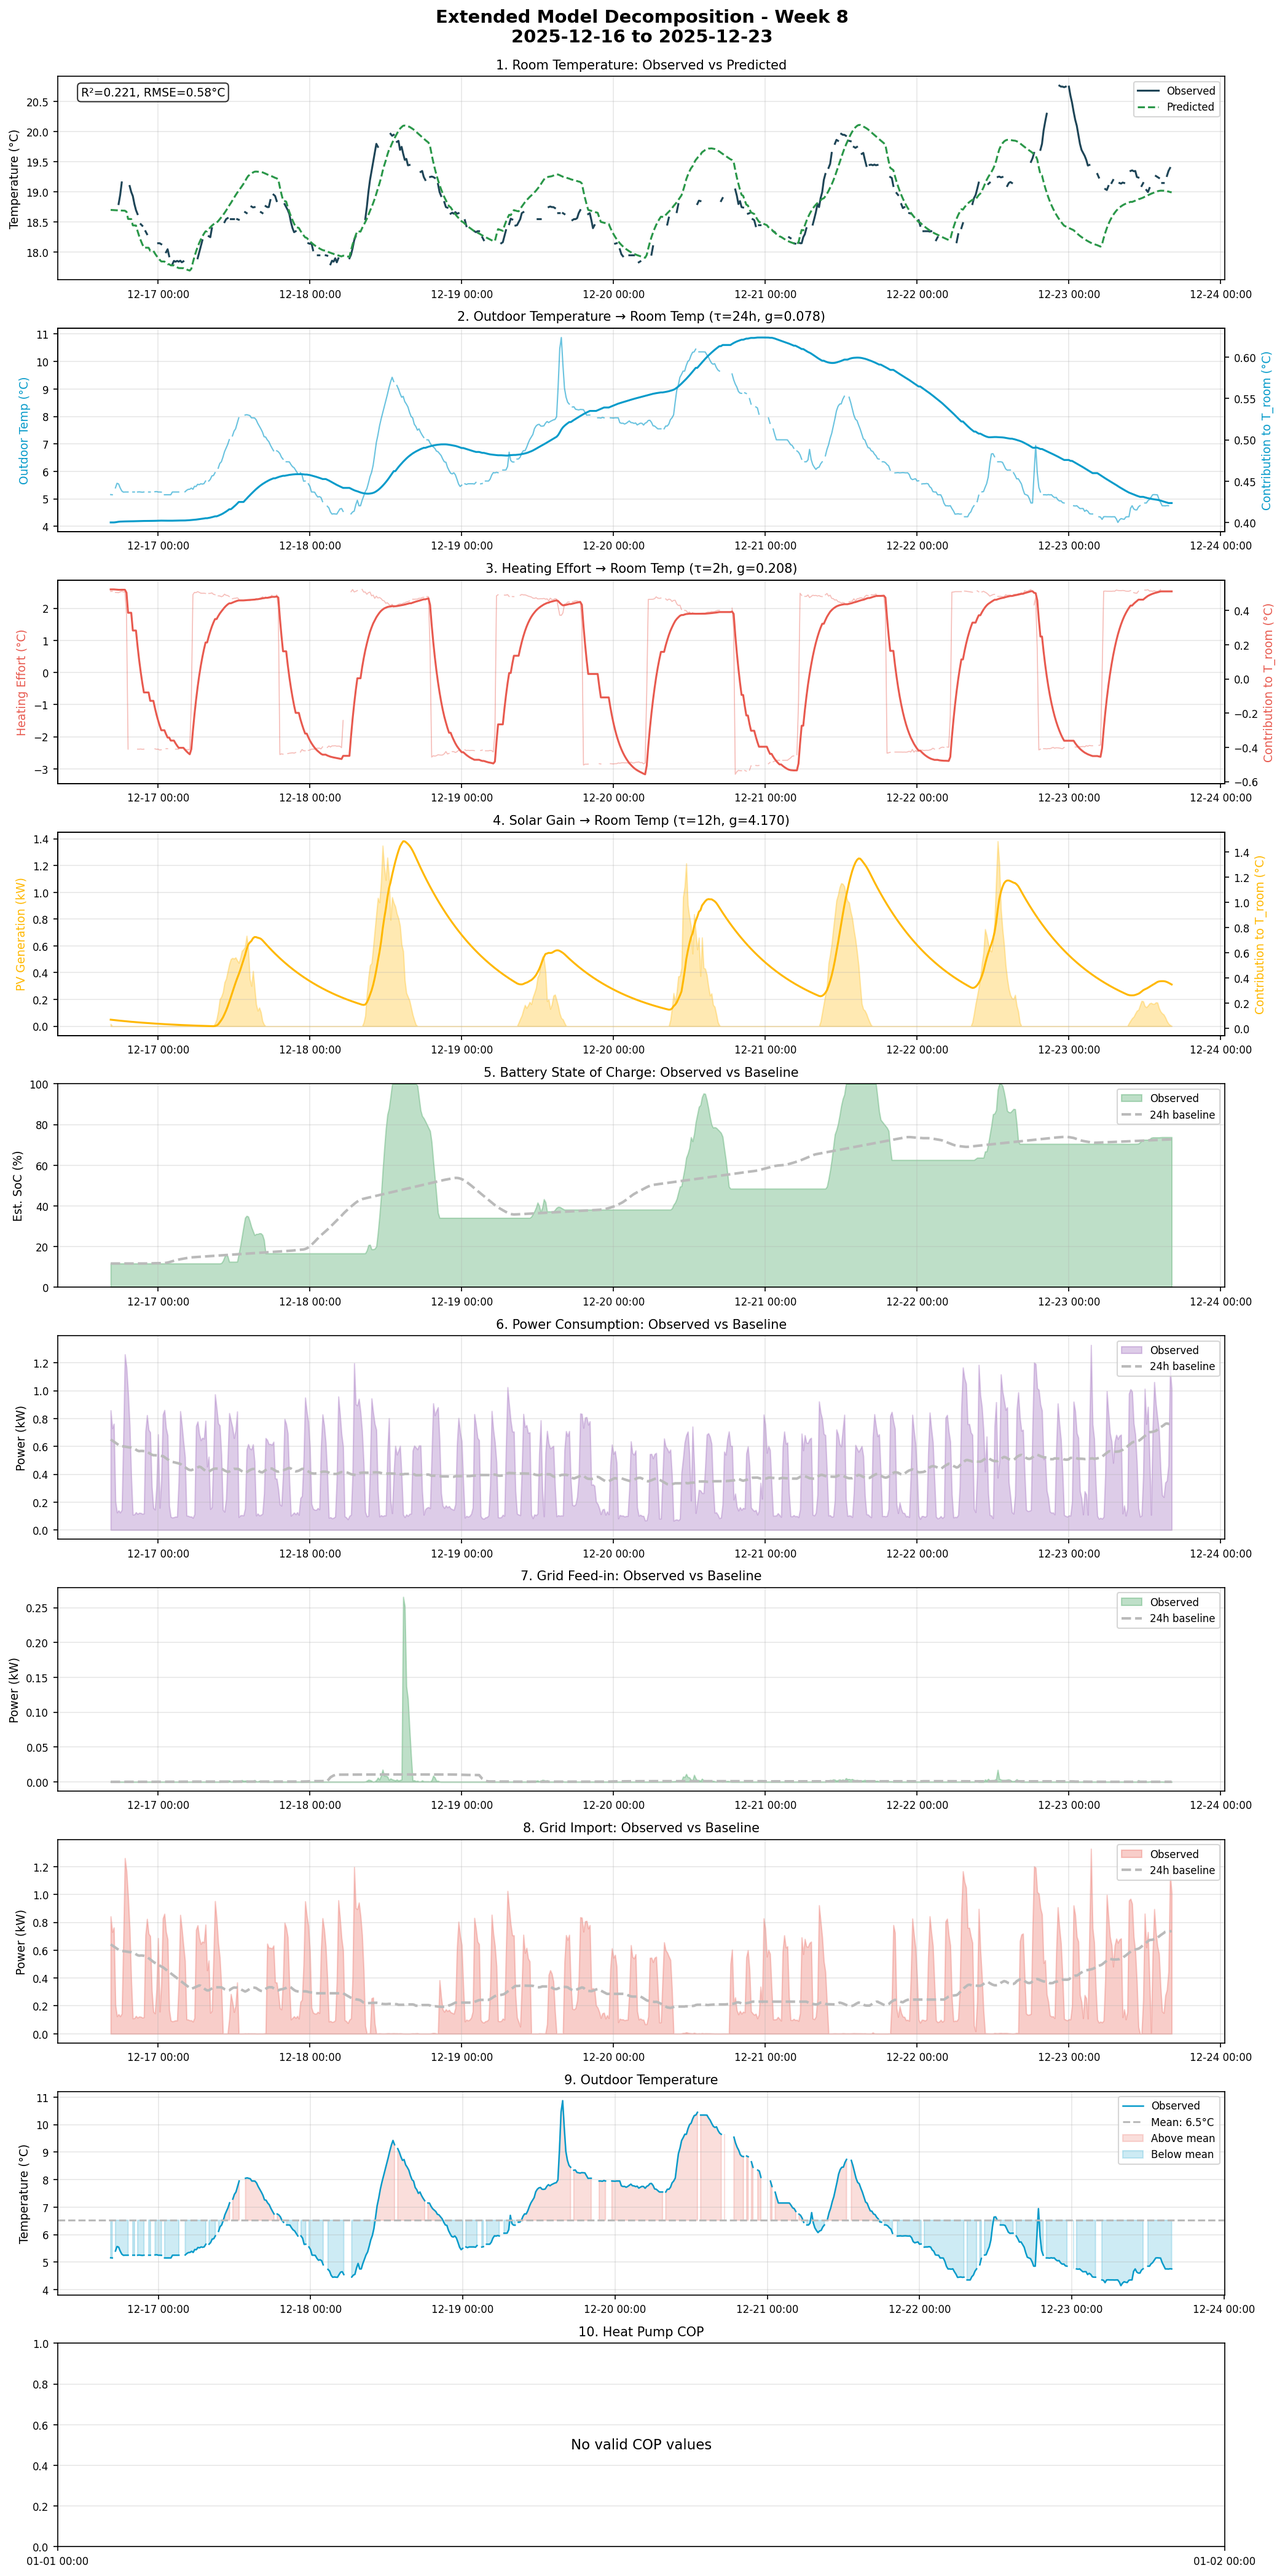
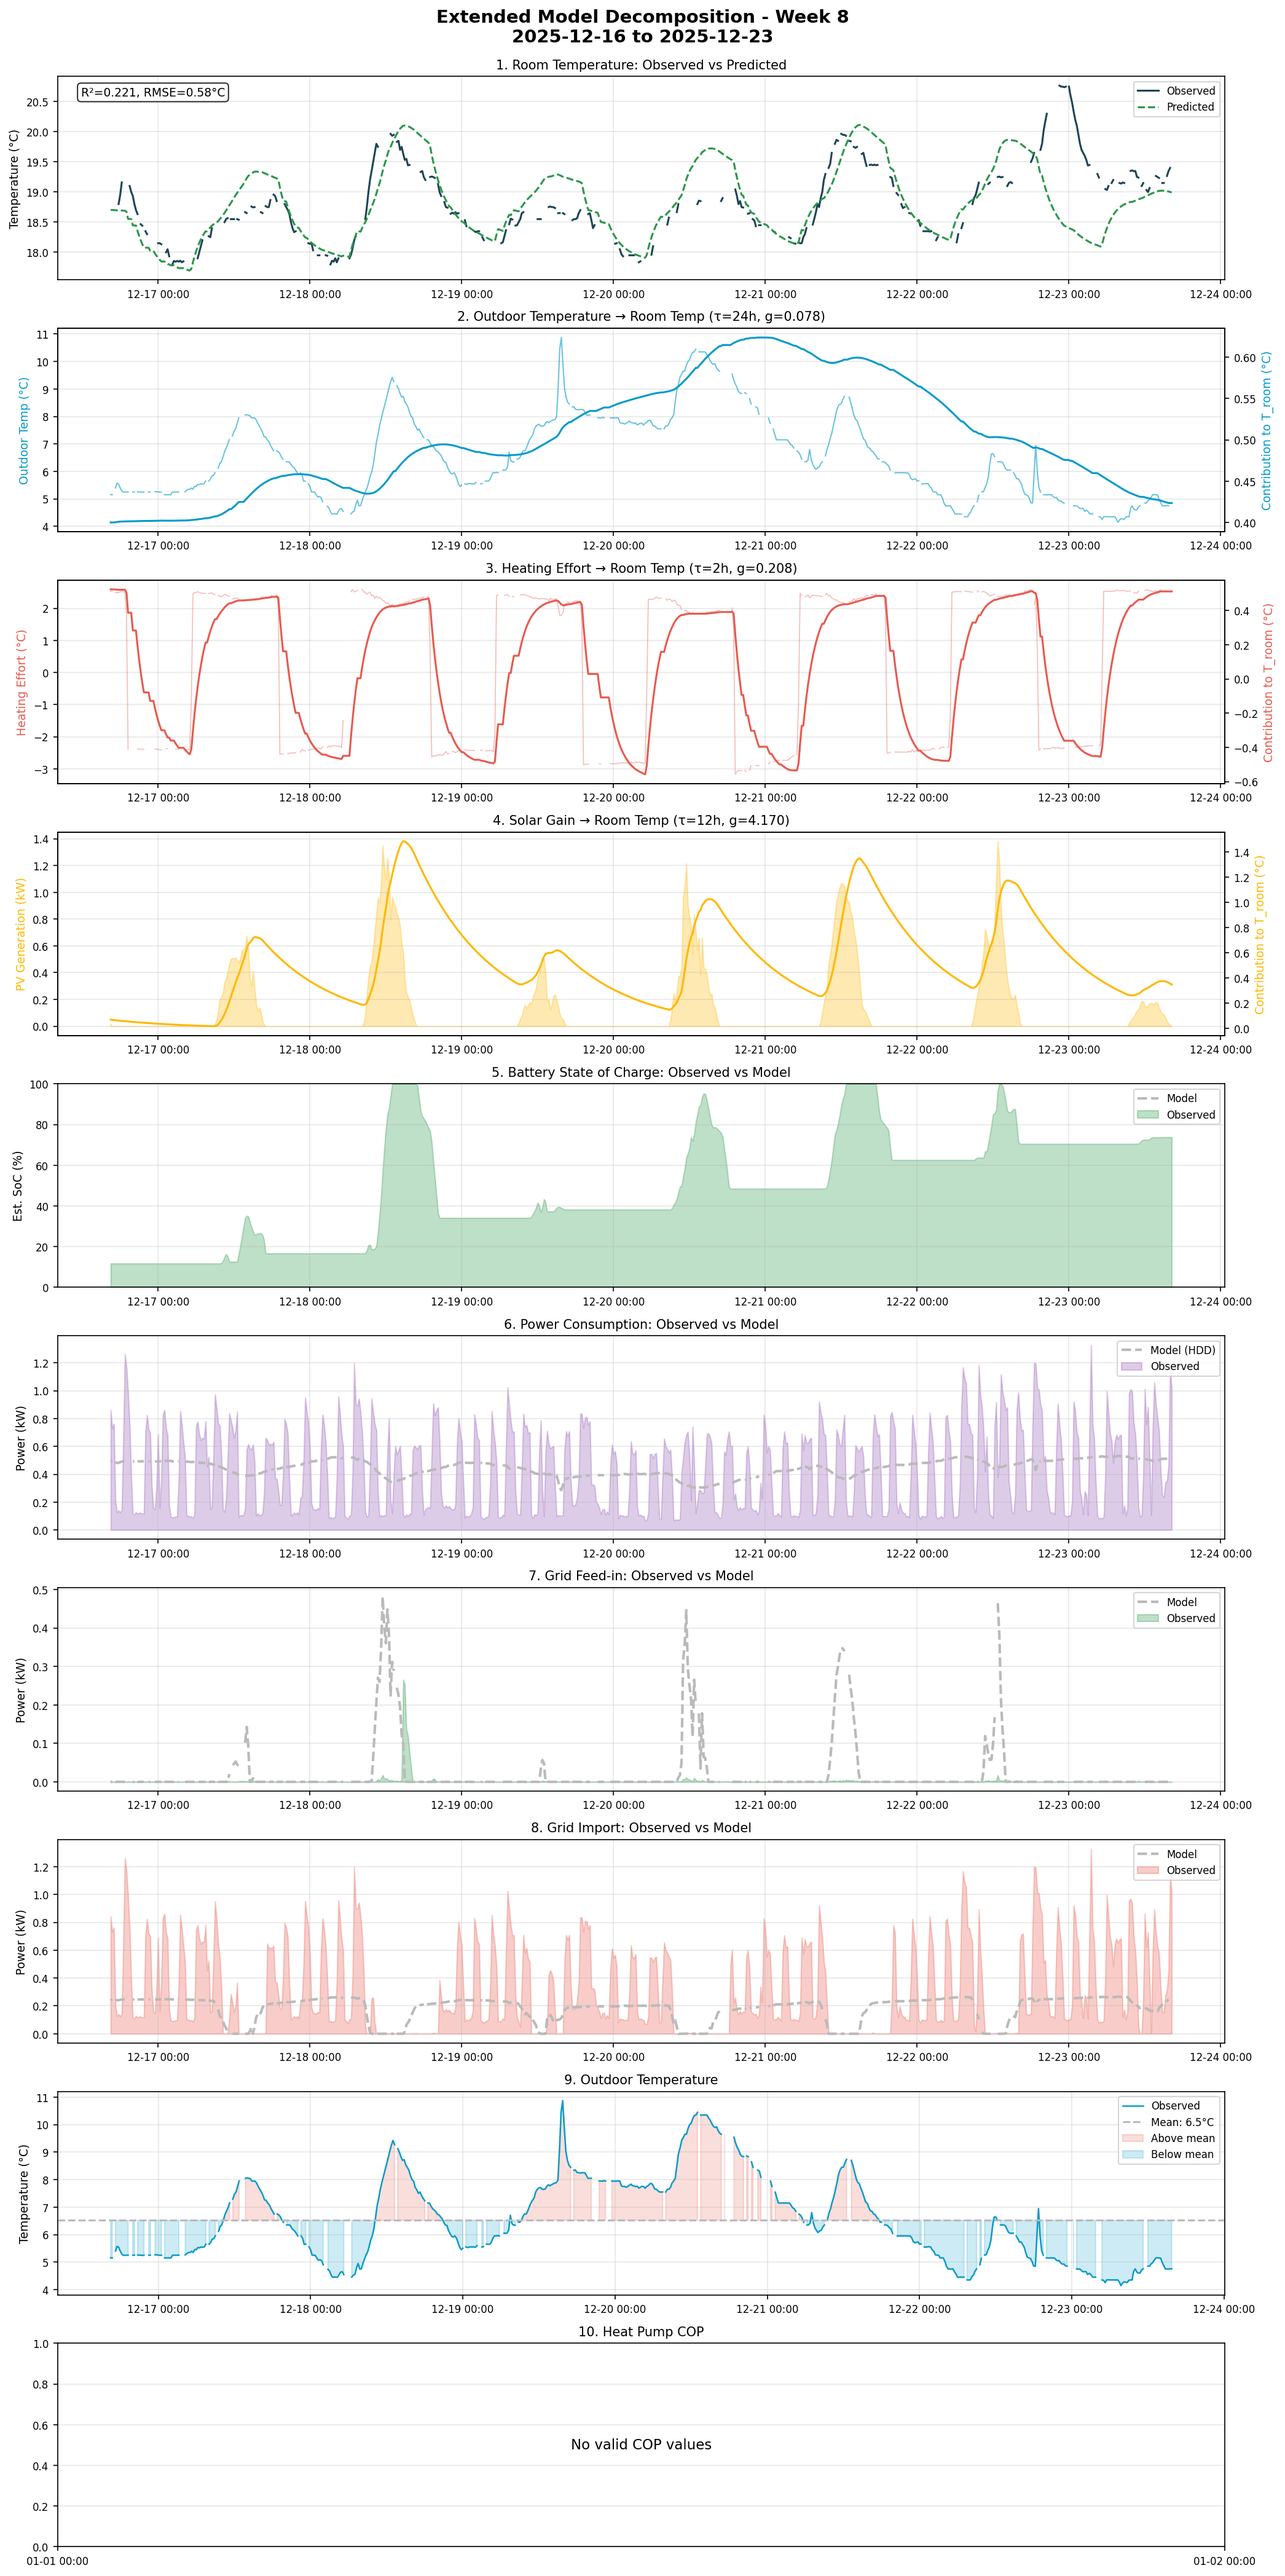
Replace 24h baseline with energy balance model predictions
Panels 5-8 now show actual model predictions instead of rolling average:
- Consumption: HDD model (base + heating_coef × HDD), R²=0.145
- Grid feed-in/import: Energy balance (PV - consumption ± battery)
- Battery SoC: Modeled from predicted charge/discharge flows

Model fitted on full dataset, predictions show expected values given
outdoor temperature and PV generation.

🤖 Generated with [Claude Code](https://claude.com/claude-code)

diff --git a/src/phase3/06_extended_decomposition.py b/src/phase3/06_extended_decomposition.py
@@ -21,7 +21,6 @@ import numpy as np
 import matplotlib.pyplot as plt
 import matplotlib.dates as mdates
 from pathlib import Path
-from scipy.ndimage import uniform_filter1d
 import json
 
 # Paths
@@ -182,8 +181,92 @@ def compute_model_terms(df, params, hc_params):
     }
 
 
+def fit_energy_models(energy_df, integrated_df):
+    """Fit simple energy models for prediction.
+
+    Returns dict with model coefficients for:
+    - consumption: base_load + temp_coef * (T_ref - T_outdoor)
+    - Battery/grid flows from energy balance
+    """
+    from sklearn.linear_model import LinearRegression
+
+    # Merge energy and temperature data
+    t_out_col = 'stiebel_eltron_isg_outdoor_temperature'
+    if t_out_col not in integrated_df.columns:
+        return None
+
+    # Align data
+    common_idx = energy_df.index.intersection(integrated_df.index)
+    if len(common_idx) < 100:
+        return None
+
+    consumption = energy_df.loc[common_idx, 'total_consumption_kwh'].fillna(0)
+    t_out = integrated_df.loc[common_idx, t_out_col].ffill()
+    pv = energy_df.loc[common_idx, 'pv_generation_kwh'].fillna(0)
+
+    # Fit consumption model: consumption = base + heating_coef * max(0, T_ref - T_out)
+    # Use HDD approach with reference temp 18°C
+    T_REF = 18.0
+    hdd = np.maximum(0, T_REF - t_out.values)
+
+    valid = ~(np.isnan(consumption.values) | np.isnan(hdd))
+    if valid.sum() < 50:
+        return None
+
+    X = hdd[valid].reshape(-1, 1)
+    y = consumption.values[valid]
+
+    model = LinearRegression()
+    model.fit(X, y)
+
+    return {
+        'base_load': model.intercept_,
+        'heating_coef': model.coef_[0],
+        't_ref': T_REF,
+        'r2': model.score(X, y),
+    }
+
+
+def predict_energy(energy_week, t_out, energy_model):
+    """Predict energy flows using fitted model."""
+    if energy_model is None:
+        return {}
+
+    # Predict consumption from temperature
+    hdd = np.maximum(0, energy_model['t_ref'] - t_out)
+    consumption_pred = energy_model['base_load'] + energy_model['heating_coef'] * hdd
+    consumption_pred = np.maximum(0, consumption_pred)
+
+    # Get PV (observed - no model for this)
+    pv = energy_week['pv_generation_kwh'].fillna(0).values if 'pv_generation_kwh' in energy_week.columns else np.zeros(len(t_out))
+
+    # Energy balance predictions
+    # Net = PV - Consumption
+    net = pv - consumption_pred
+
+    # Grid feed-in = excess (positive net)
+    feedin_pred = np.maximum(0, net)
+
+    # Grid import = deficit (negative net)
+    import_pred = np.maximum(0, -net)
+
+    # Battery absorbs some of the excess/provides some of deficit
+    # Simple model: battery smooths ~50% of imbalance
+    battery_charge_pred = 0.5 * feedin_pred
+    battery_discharge_pred = 0.5 * import_pred
+
+    return {
+        'consumption': consumption_pred,
+        'feedin': feedin_pred - battery_charge_pred,  # Reduced by battery charging
+        'import': import_pred - battery_discharge_pred,  # Reduced by battery discharge
+        'battery_charge': battery_charge_pred,
+        'battery_discharge': battery_discharge_pred,
+    }
+
+
 def create_extended_decomposition(df, energy_df, heating_df, params, hc_params,
-                                   start_date, end_date, output_path, title_suffix=''):
+                                   start_date, end_date, output_path, title_suffix='',
+                                   energy_model=None):
     """Create extended decomposition figure with all panels in single column layout."""
 
     # Filter data to date range
@@ -270,6 +353,9 @@ def create_extended_decomposition(df, energy_df, heating_df, params, hc_params,
     ax.set_title(f'4. Solar Gain → Room Temp (τ={params["tau_pv"]:.0f}h, g={params["g_pv"]:.3f})')
     ax.grid(True, alpha=0.3)
 
+    # Get energy model predictions
+    energy_pred = predict_energy(energy_week, terms['t_out'], energy_model) if energy_model else {}
+
     # === Panel 5: Battery State of Charge ===
     ax = axes[4]
     if len(energy_week) > 0 and 'battery_charging_kwh' in energy_week.columns:
@@ -283,71 +369,80 @@ def create_extended_decomposition(df, energy_df, heating_df, params, hc_params,
         soc_observed = 50 + (cumsum - np.mean(cumsum)) / 10 * 100
         soc_observed = np.clip(soc_observed, 0, 100)
 
-        # "Predicted" baseline: what we'd expect from daily pattern (24h rolling mean)
-        soc_baseline = uniform_filter1d(soc_observed, size=96, mode='nearest')
+        # Predicted from energy balance model
+        if 'battery_charge' in energy_pred:
+            net_pred = energy_pred['battery_charge'] - energy_pred['battery_discharge']
+            cumsum_pred = np.cumsum(net_pred)
+            soc_pred = 50 + (cumsum_pred - np.mean(cumsum_pred)) / 10 * 100
+            soc_pred = np.clip(soc_pred, 0, 100)
+            ax.plot(energy_week.index, soc_pred, color=COLORS['baseline'],
+                    linewidth=2, linestyle='--', label='Model')
 
         ax.fill_between(energy_week.index, 0, soc_observed, color=COLORS['battery'],
                         alpha=0.3, label='Observed')
-        ax.plot(energy_week.index, soc_baseline, color=COLORS['baseline'],
-                linewidth=2, linestyle='--', label='24h baseline')
         ax.set_ylabel('Est. SoC (%)')
         ax.set_ylim(0, 100)
         ax.legend(loc='upper right')
     else:
         ax.text(0.5, 0.5, 'No battery data', ha='center', va='center', transform=ax.transAxes)
-    ax.set_title('5. Battery State of Charge: Observed vs Baseline')
+    ax.set_title('5. Battery State of Charge: Observed vs Model')
     ax.grid(True, alpha=0.3)
 
     # === Panel 6: Power Consumption ===
     ax = axes[5]
     if len(energy_week) > 0 and 'total_consumption_kwh' in energy_week.columns:
         consumption = energy_week['total_consumption_kwh'].fillna(0).values
-        # 24-hour moving average as "predicted/baseline"
-        baseline = uniform_filter1d(consumption, size=96, mode='nearest')
+
+        # Predicted from temperature model
+        if 'consumption' in energy_pred:
+            ax.plot(energy_week.index, energy_pred['consumption'], color=COLORS['baseline'],
+                    linewidth=2, linestyle='--', label='Model (HDD)')
 
         ax.fill_between(energy_week.index, 0, consumption, color=COLORS['consumption'],
                         alpha=0.3, label='Observed')
-        ax.plot(energy_week.index, baseline, color=COLORS['baseline'],
-                linewidth=2, linestyle='--', label='24h baseline')
         ax.set_ylabel('Power (kW)')
         ax.legend(loc='upper right')
     else:
         ax.text(0.5, 0.5, 'No consumption data', ha='center', va='center', transform=ax.transAxes)
-    ax.set_title('6. Power Consumption: Observed vs Baseline')
+    ax.set_title('6. Power Consumption: Observed vs Model')
     ax.grid(True, alpha=0.3)
 
     # === Panel 7: Grid Feed-in ===
     ax = axes[6]
     if len(energy_week) > 0 and 'grid_feedin_kwh' in energy_week.columns:
         feedin = energy_week['grid_feedin_kwh'].fillna(0).values
-        baseline = uniform_filter1d(feedin, size=96, mode='nearest')
+
+        # Predicted from energy balance
+        if 'feedin' in energy_pred:
+            ax.plot(energy_week.index, energy_pred['feedin'], color=COLORS['baseline'],
+                    linewidth=2, linestyle='--', label='Model')
 
         ax.fill_between(energy_week.index, 0, feedin, color=COLORS['grid_export'],
                         alpha=0.3, label='Observed')
-        ax.plot(energy_week.index, baseline, color=COLORS['baseline'],
-                linewidth=2, linestyle='--', label='24h baseline')
         ax.set_ylabel('Power (kW)')
         ax.legend(loc='upper right')
     else:
         ax.text(0.5, 0.5, 'No feed-in data', ha='center', va='center', transform=ax.transAxes)
-    ax.set_title('7. Grid Feed-in: Observed vs Baseline')
+    ax.set_title('7. Grid Feed-in: Observed vs Model')
     ax.grid(True, alpha=0.3)
 
     # === Panel 8: Grid Import ===
     ax = axes[7]
     if len(energy_week) > 0 and 'external_supply_kwh' in energy_week.columns:
         grid_import = energy_week['external_supply_kwh'].fillna(0).values
-        baseline = uniform_filter1d(grid_import, size=96, mode='nearest')
+
+        # Predicted from energy balance
+        if 'import' in energy_pred:
+            ax.plot(energy_week.index, energy_pred['import'], color=COLORS['baseline'],
+                    linewidth=2, linestyle='--', label='Model')
 
         ax.fill_between(energy_week.index, 0, grid_import, color=COLORS['grid_import'],
                         alpha=0.3, label='Observed')
-        ax.plot(energy_week.index, baseline, color=COLORS['baseline'],
-                linewidth=2, linestyle='--', label='24h baseline')
         ax.set_ylabel('Power (kW)')
         ax.legend(loc='upper right')
     else:
         ax.text(0.5, 0.5, 'No grid import data', ha='center', va='center', transform=ax.transAxes)
-    ax.set_title('8. Grid Import: Observed vs Baseline')
+    ax.set_title('8. Grid Import: Observed vs Model')
     ax.grid(True, alpha=0.3)
 
     # === Panel 9: Outdoor Temperature ===
@@ -452,6 +547,15 @@ def main():
     overlap_end = min(integrated.index.max(), energy.index.max(), heating.index.max())
     print(f"\nData overlap: {overlap_start.date()} to {overlap_end.date()}")
 
+    # Fit energy models for prediction
+    print("\nFitting energy models...")
+    energy_model = fit_energy_models(energy, integrated)
+    if energy_model:
+        print(f"  Consumption model: base={energy_model['base_load']:.3f} kW, "
+              f"heating_coef={energy_model['heating_coef']:.4f} kW/°C, R²={energy_model['r2']:.3f}")
+    else:
+        print("  WARNING: Could not fit energy model")
+
     # Generate main extended decomposition figure (representative week)
     print("\nGenerating main extended decomposition figure...")
 
@@ -464,7 +568,8 @@ def main():
     success = create_extended_decomposition(
         integrated, energy, heating, params, hc_params,
         start_date, end_date, output_path,
-        title_suffix=f'\n{start_date.strftime("%Y-%m-%d")} to {end_date.strftime("%Y-%m-%d")}'
+        title_suffix=f'\n{start_date.strftime("%Y-%m-%d")} to {end_date.strftime("%Y-%m-%d")}',
+        energy_model=energy_model
     )
 
     if success:
@@ -491,7 +596,8 @@ def main():
         success = create_extended_decomposition(
             integrated, energy, heating, params, hc_params,
             start, end, output_path,
-            title_suffix=f' - Week {week_num}\n{start.strftime("%Y-%m-%d")} to {end.strftime("%Y-%m-%d")}'
+            title_suffix=f' - Week {week_num}\n{start.strftime("%Y-%m-%d")} to {end.strftime("%Y-%m-%d")}',
+            energy_model=energy_model
         )
 
         if success:
